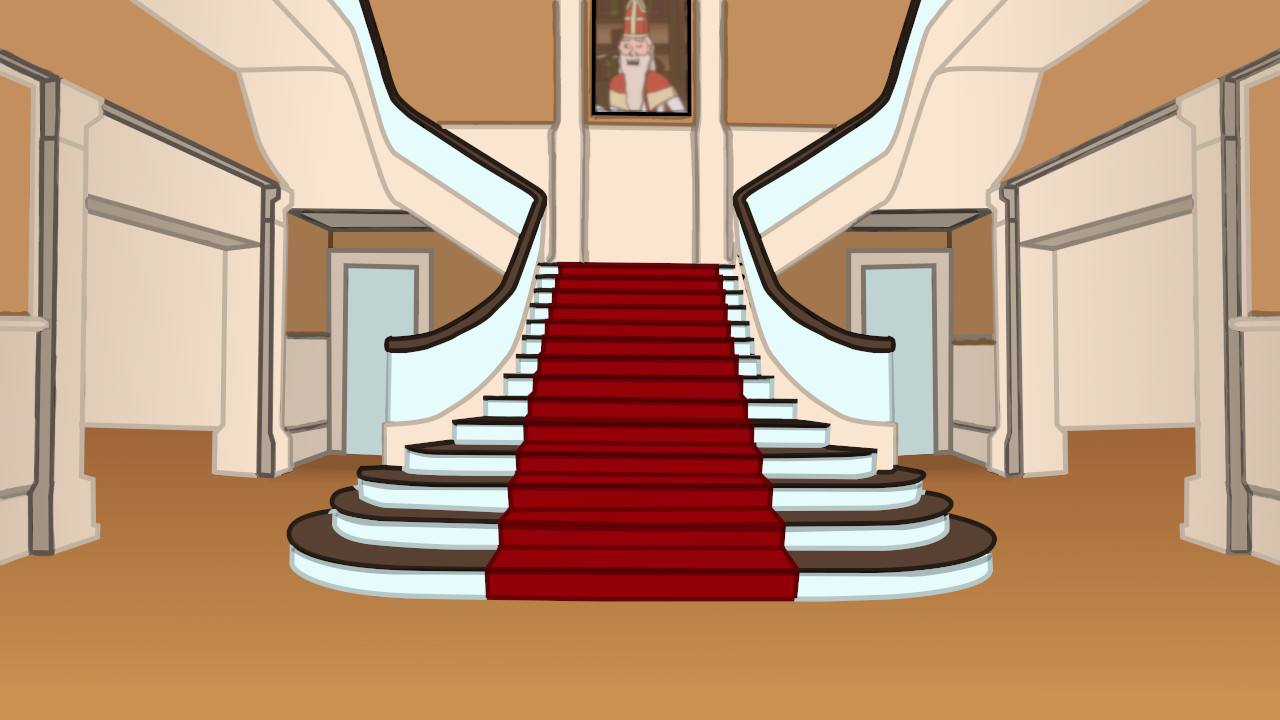
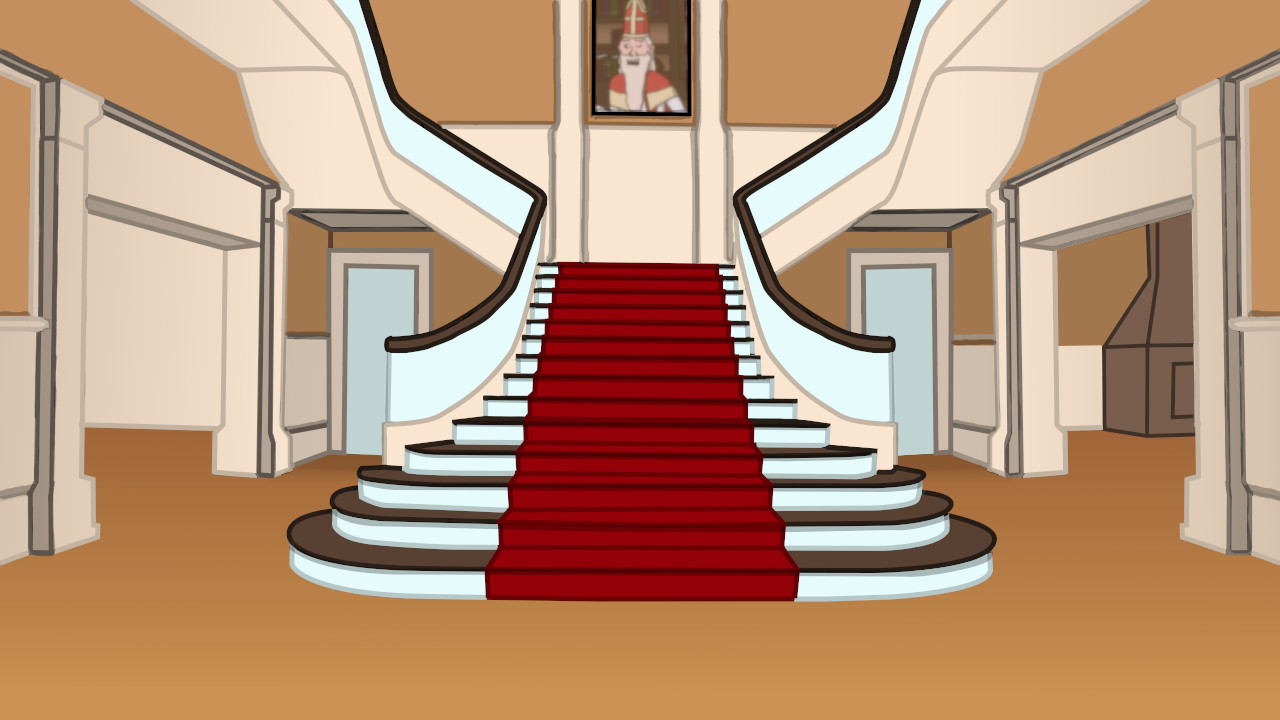
add draft livingroom

Changed region(s): [[0.8125, 0.275, 0.9375, 0.6111], [0.75, 0.4583, 0.7812, 0.4889]]

diff --git a/src/content/scripts/sint-room.ts b/src/content/scripts/sint-room.ts
@@ -16,18 +16,46 @@ const sintroom = (queue: Queue) => {
     hold,
     stopMusic,
     playMusic,
+    onState,
+    updateState,
+    manageCharacter,
   } = scriptHelpers(queue);
+
+  const { say: sint, pos: sintPos } = manageCharacter(
+    "sint",
+    "sint",
+    "Sinterklaas",
+    {
+      x: 600,
+      y: 30,
+      visible: false,
+      dollSettings: {},
+    }
+  );
 
   updateBackground({ image: "sintroom", frontLayer: undefined, blur: false });
   fadeIn();
   playMusic(backgroundTrack, { volume: 0.1 });
+  onState(
+    state => state.sint === "new",
+    () => {
+      sintPos({ visible: true });
+      sint("Hey, Hiddo, wat gezellig dat je er bent!");
+
+      sintPos({ visible: false });
+      updateState(actions => actions.updateSint("visited"));
+    }
+  );
   buttons([
     {
       id: "hall",
       hoverEffect: "glow",
       coordinates: [78, -10, 263, 100, 260, 450, 70, 630],
       color: "black",
-      onClick: () => {
+      onClick: ({ hide }) => {
+        hide("sint");
+        sintPos({ visible: true });
+        sint("Dag hoor!");
         stopMusic();
         fadeOut();
         jump("hall");

diff --git a/src/lib/script-helpers/flow.ts b/src/lib/script-helpers/flow.ts
@@ -10,8 +10,8 @@ import buttonsState from "src/state/buttons";
 
 type ButtonSupport = {
   remove: () => void;
-  hide: () => void;
-  show: () => void;
+  hide: (id?: string) => void;
+  show: (id?: string) => void;
 };
 
 export type Button = {
@@ -105,11 +105,11 @@ const flowHelpers = (queue: Queue) => {
                     remove: () => {
                       dispatch(remove(selectedButton.id));
                     },
-                    hide: () => {
-                      dispatch(hide(selectedButton.id));
+                    hide: (id?: string) => {
+                      dispatch(hide(id || selectedButton.id));
                     },
-                    show: () => {
-                      dispatch(show(selectedButton.id));
+                    show: (id?: string) => {
+                      dispatch(show(id || selectedButton.id));
                     },
                   });
                   dispatch(buttonsState.actions.deselect());

diff --git a/src/content/scripts/living.ts b/src/content/scripts/living.ts
@@ -1,0 +1,37 @@
+import { Queue } from "src/lib/events/types";
+import scriptHelpers from "src/lib/script-helpers";
+
+const living = (queue: Queue) => {
+  const {
+    fadeOut,
+    fadeIn,
+    updateBackground,
+    hold,
+    jump,
+    buttons,
+  } = scriptHelpers(queue);
+
+  updateBackground({ image: "living", frontLayer: undefined, blur: false });
+  fadeIn();
+
+  buttons([
+    {
+      id: "left",
+      hoverEffect: "glow",
+      color: "black",
+      // prettier-ignore
+      coordinates: [
+        85, 195, 85, 476, 95, 477,
+        100, 539, 260, 475, 262, 245,
+      ],
+      onClick(button) {
+        fadeOut();
+        jump("hall");
+      },
+    },
+  ]);
+
+  hold();
+};
+
+export default living;

diff --git a/src/components/Background.tsx b/src/components/Background.tsx
@@ -9,7 +9,8 @@ export interface BackgroundProps {
     | "pietenhuis"
     | "hall"
     | "poemroom"
-    | "sintroom";
+    | "sintroom"
+    | "living";
   kids?: boolean;
   tv?: boolean;
   blur?: boolean;
@@ -27,6 +28,7 @@ const Background: React.FC<BackgroundProps> = ({ image, kids, tv, blur }) => (
         [styles.hall]: image === "hall",
         [styles.poemroom]: image === "poemroom",
         [styles.sintroom]: image === "sintroom",
+        [styles.living]: image === "living",
         [styles.blur]: !!blur,
         [styles.background]: true,
       })}

diff --git a/src/content/scripts/hall.ts b/src/content/scripts/hall.ts
@@ -163,6 +163,20 @@ const pietenhuis = (queue: Queue) => {
         jump("sintroom");
       },
     },
+    {
+      id: "right",
+      hoverEffect: "glow",
+      color: "black",
+      // prettier-ignore
+      coordinates: [
+        1195, 195, 1195, 476, 1185, 477,
+        1180, 539, 1020, 475, 1018, 245,
+      ],
+      onClick: () => {
+        fadeOut();
+        jump("living");
+      },
+    },
   ]);
 
   onState(

diff --git a/src/content/scripts/index.ts b/src/content/scripts/index.ts
@@ -3,6 +3,7 @@ import pietenhuis from "./pietenhuis";
 import hall from "./hall";
 import poemroom from "./poem-room";
 import sintroom from "./sint-room";
+import living from "./living";
 
 const scripts = {
   intro,
@@ -10,6 +11,7 @@ const scripts = {
   hall,
   poemroom,
   sintroom,
+  living,
 };
 
 export default scripts;

diff --git a/public/electron.js b/public/electron.js
@@ -14,6 +14,7 @@ function createWindow() {
 }
 
 function createRemotePlayWindow() {
+  // https://gist.github.com/maximilian-lindsey/a446a7ee87838a62099d
   const { networkInterfaces } = require("os");
 
   const nets = networkInterfaces();

diff --git a/src/components/Background.module.scss b/src/components/Background.module.scss
@@ -20,6 +20,9 @@
 .livingRoom {
   @include img("living-room.jpg");
 }
+.living {
+  @include img("living.jpg");
+}
 .livingRoomKids {
   @include img("living-room-kids.png");
 }
